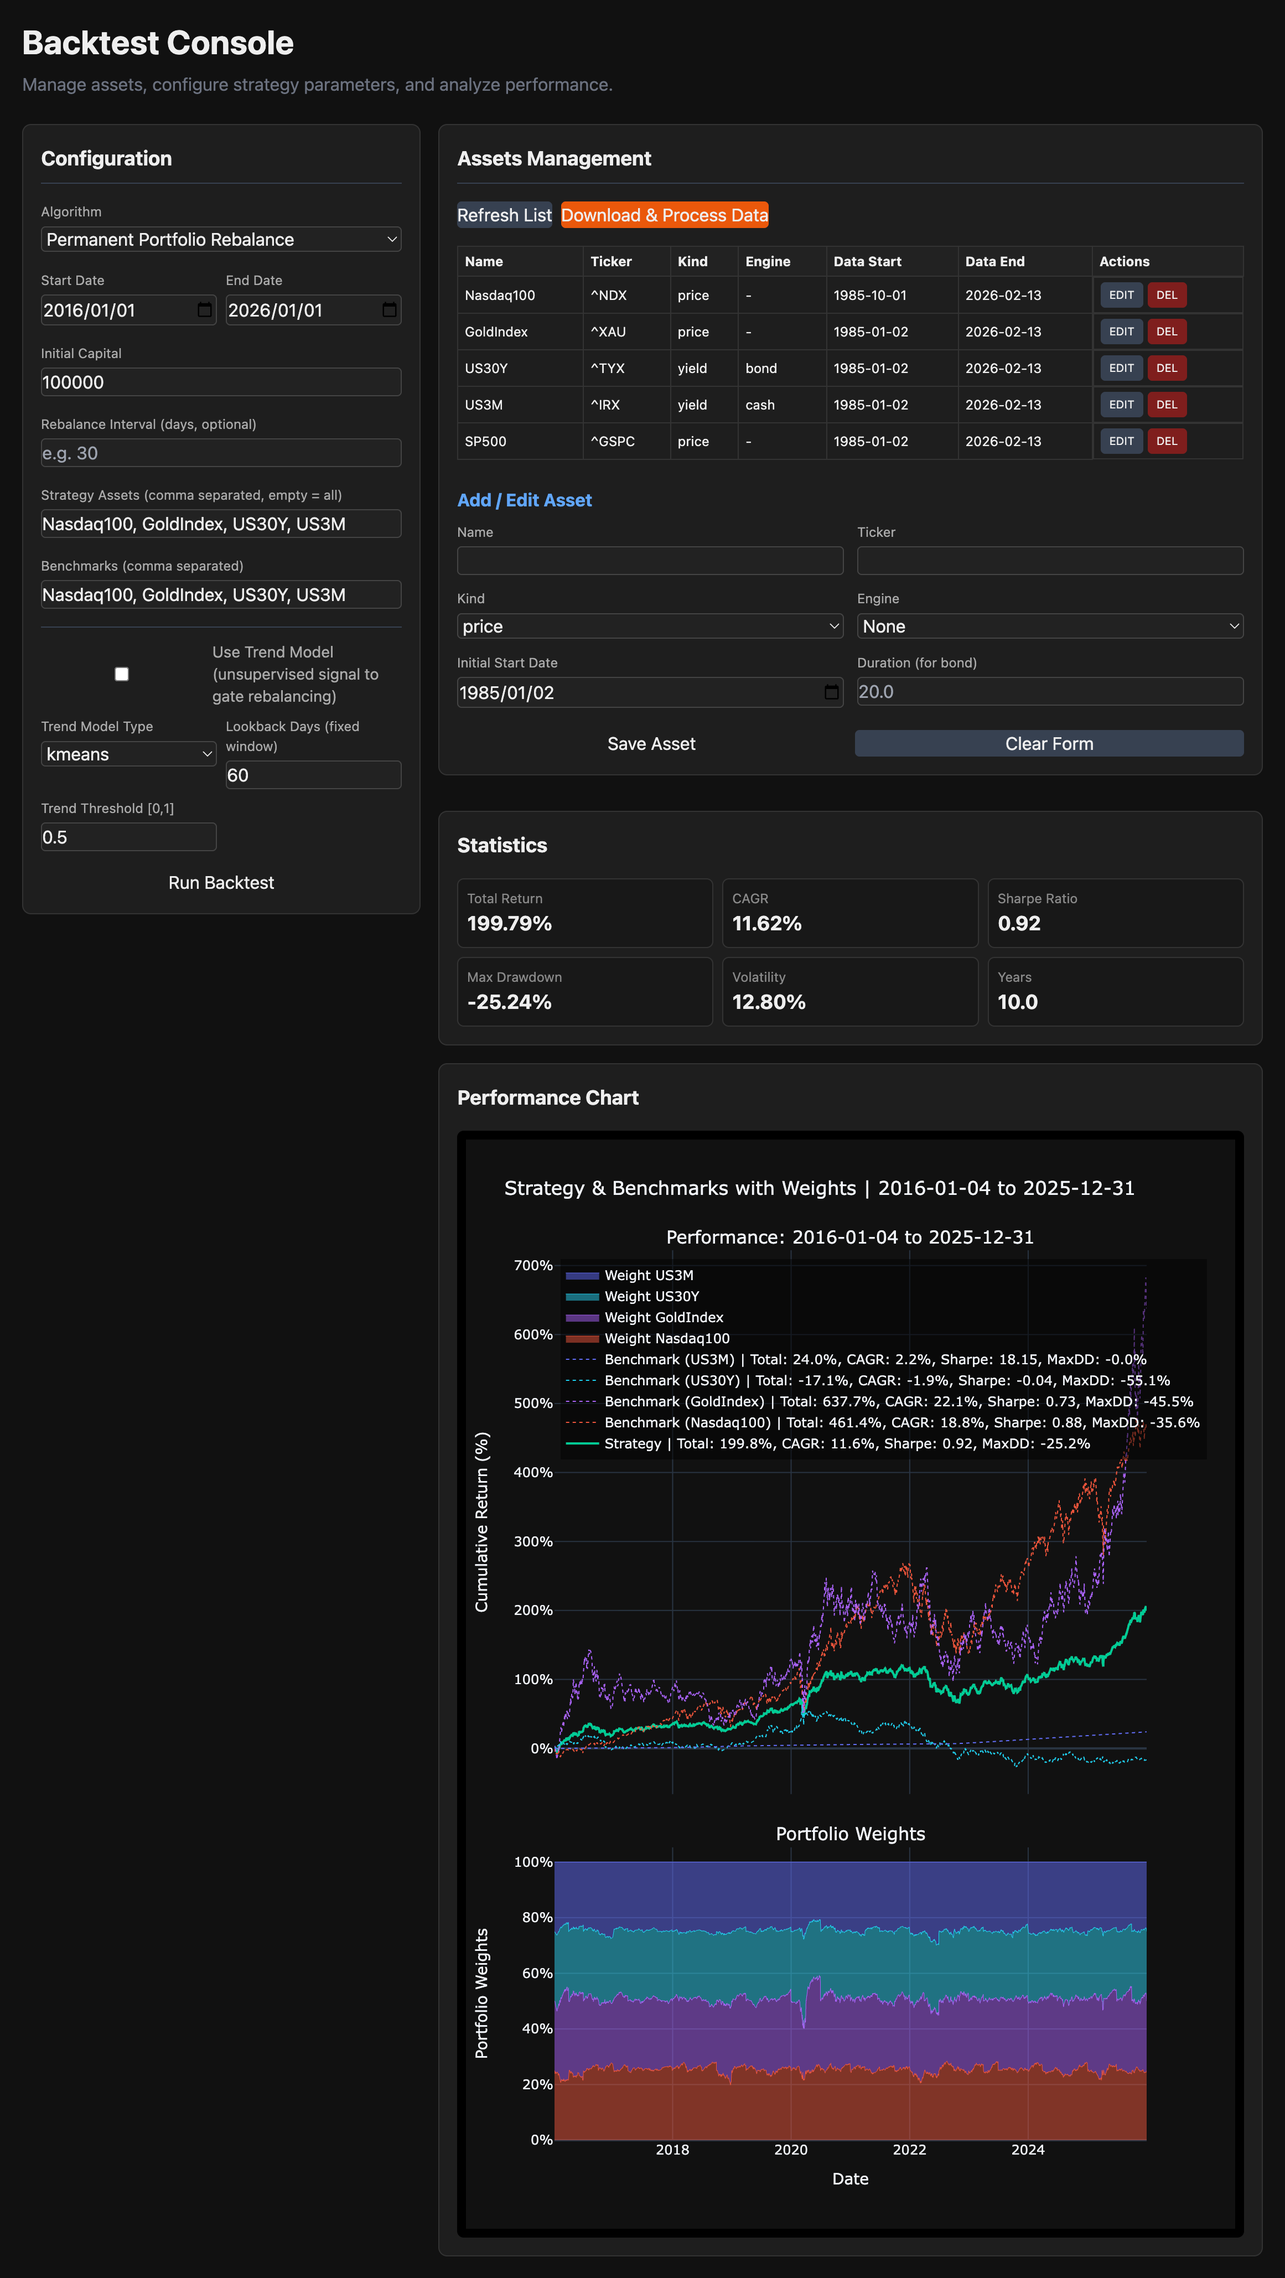
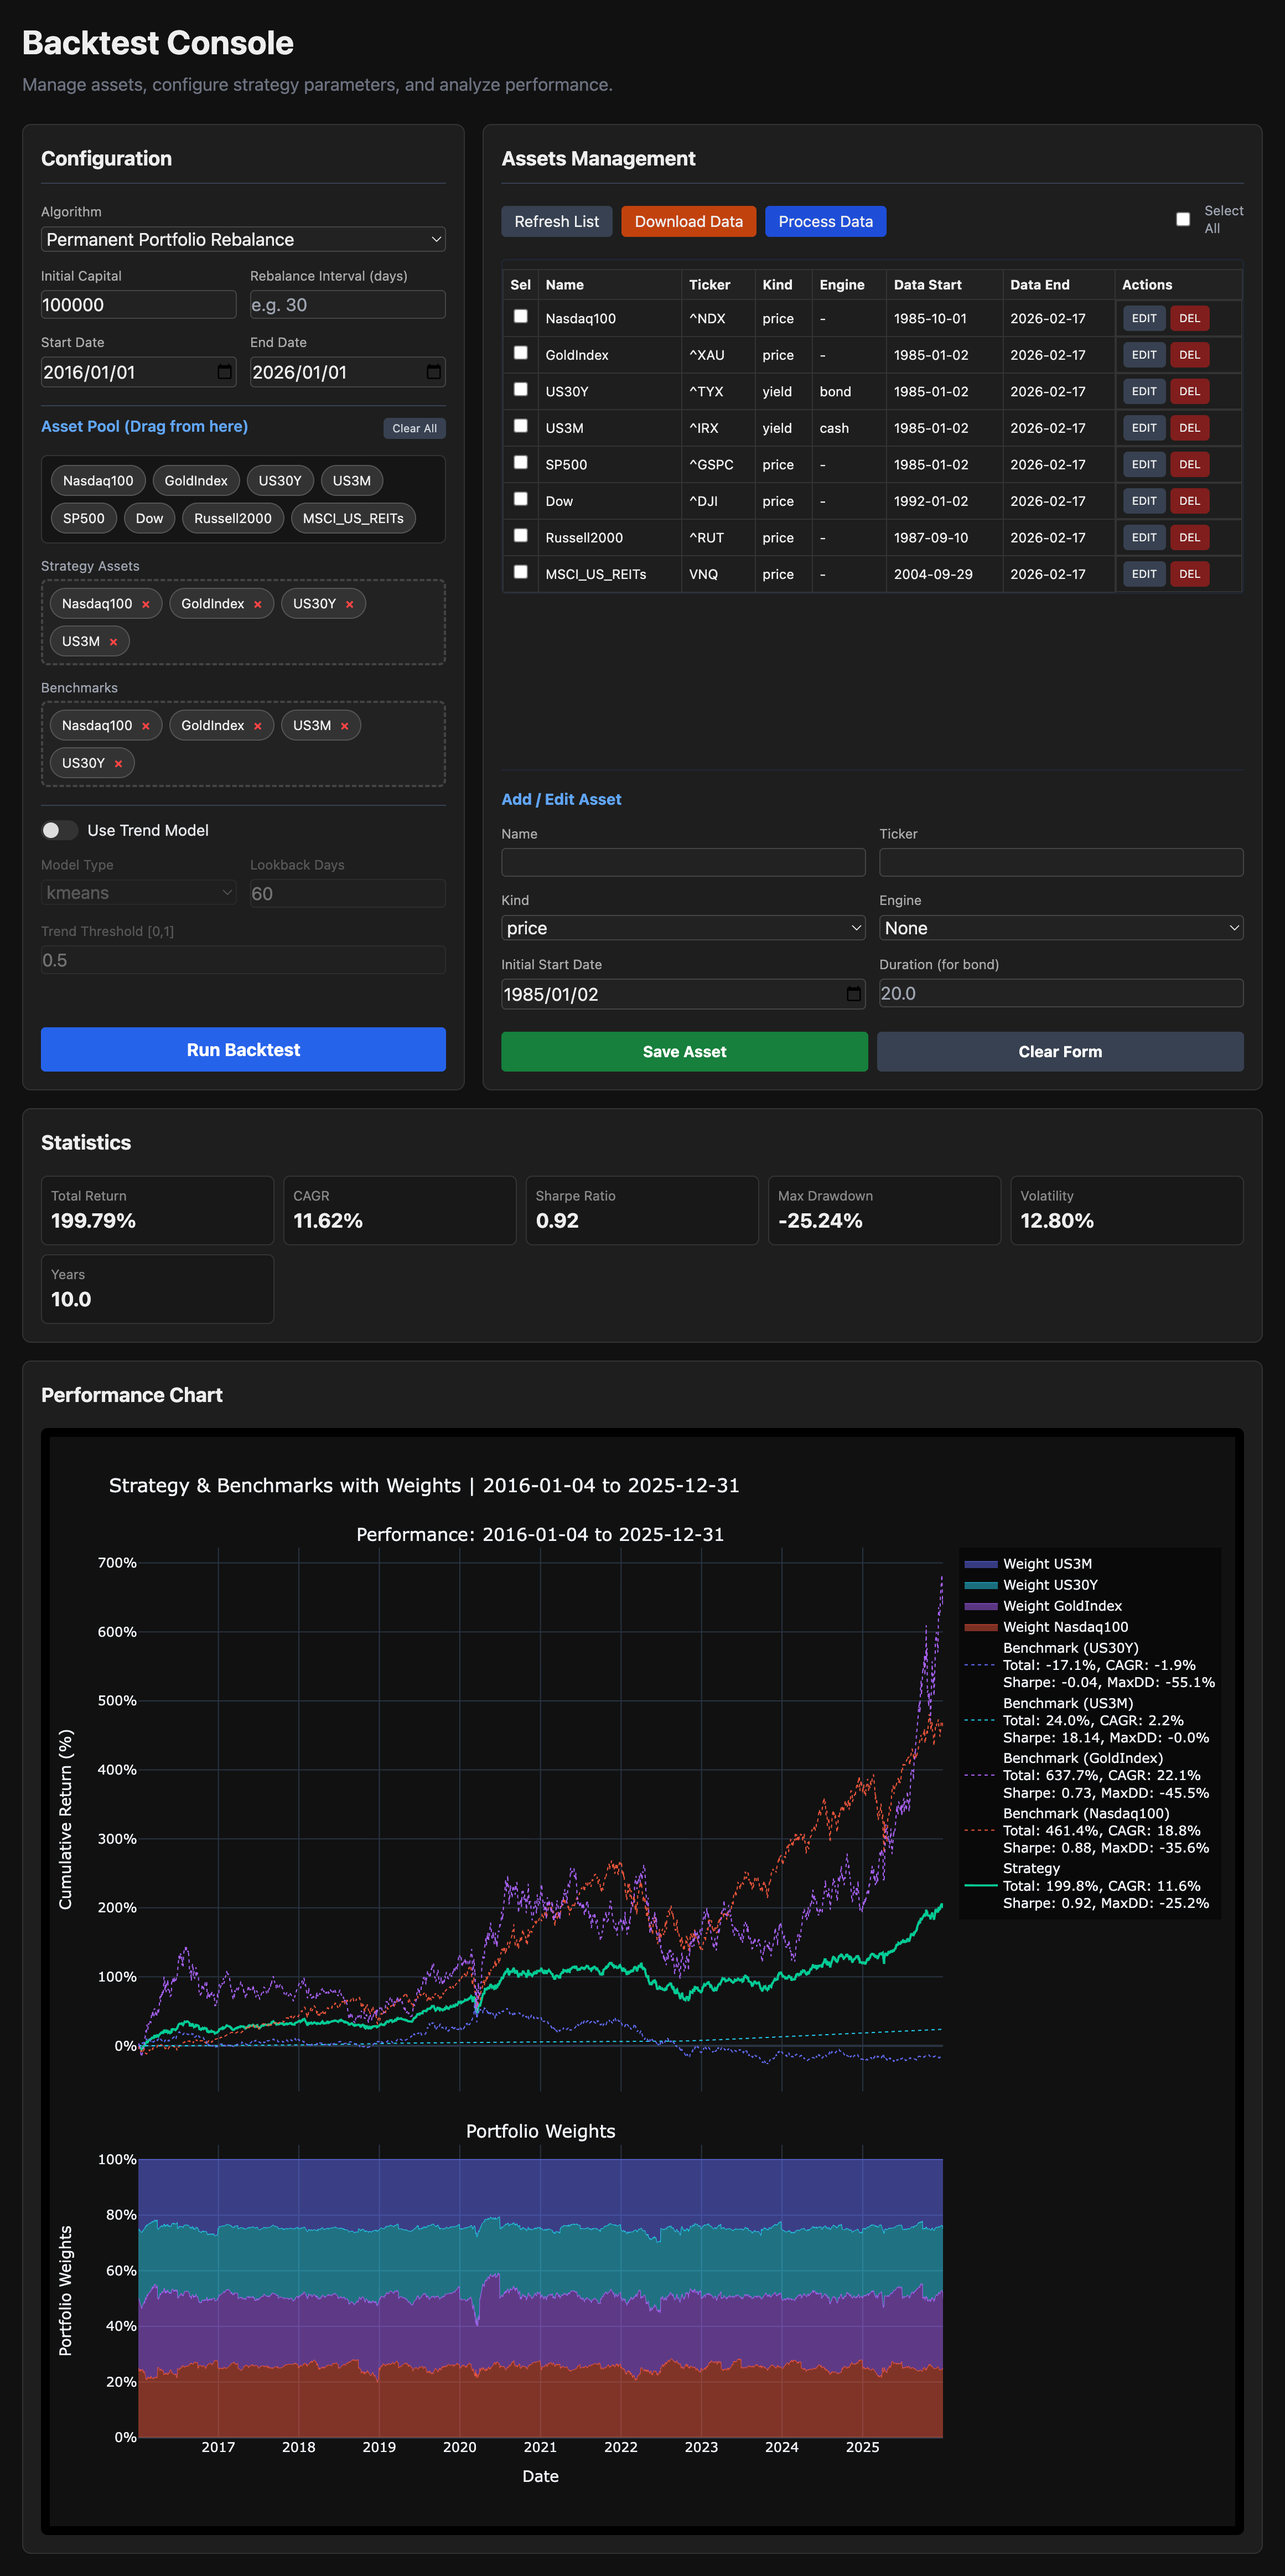
feat: refactor data processing pipeline and update FastAPI endpoints

diff --git a/README.md b/README.md
@@ -1,5 +1,10 @@
 # Updates
 
+- **2026-02-18**
+  - Refactored the data loading and processing pipeline into clearer stages: incremental raw data download (per selected asset) and full-portfolio processing/alignment driven by configuration.
+  - Introduced the `DataProcessor` class to centralize yield-to-price engines (bond/cash) and build a flexible multi-asset price matrix that only drops fully-empty dates, deferring final "barrel effect" trimming to the backtest layer.
+  - Updated the FastAPI endpoints: `POST /api/assets/download` now strictly works on user-selected assets, while `POST /api/assets/process` always rebuilds `aligned_assets.csv` from all assets defined in `config/assets.json`, independent of UI selection.
+
 - **2026-02-17**
   - Added UI controls for configuring an unsupervised trend model (model type, fixed lookback window, threshold) and wiring it through the backtest engine.
   - Introduced a new `signal_weighted_rebalance` algorithm option that tilts portfolio weights based on per-asset trend signals (implementation details remain private).
@@ -26,16 +31,17 @@ project_root/
 │
 ├── data/                # Raw asset data (CSV files named using sanitized asset names)
 ├── data_processed/
-│   ├── aligned_assets.csv              # Synchronized price matrix for backtesting
+│   ├── aligned_assets.csv              # Global aligned price matrix (built from all configured assets)
 │   └── backtest_results_*.html         # Interactive Plotly charts generated from backtest runs
 │
 ├── data_loader/
-│   ├── yahoo_downloader.py  # Incremental OHLCV data downloader using yfinance
-│   └── data_processor.py    # Yield-to-price conversion and multi-asset alignment
+│   ├── yahoo_downloader.py    # Incremental OHLCV downloader using yfinance
+│   ├── akshare_downloader.py  # Incremental OHLCV downloader using akshare
+│   └── data_processor.py      # Yield-to-price conversion and multi-asset alignment
 │
 ├── strategies/
 │   ├── backtest_engine.py      # Core simulation engine (Time loop + algorithm execution)
-|   └── algorithms_template.py  # A template for algorithms.py
+│   └── algorithms_template.py  # A template for algorithms.py
 │
 ├── utils/
 │   ├── decorators.py        # Generic decorators (e.g., @retry)
@@ -65,8 +71,11 @@ project_root/
 - **REST Endpoints**:
   - `GET /api/algorithms`: Lists available rebalancing strategies.
   - `GET /api/assets`: Retrieves configured assets and their local data availability.
-  - `POST /api/assets`: Manages asset configurations.
-  - `POST /api/assets/download`: Triggers data updates with a 1-minute rate limit.
+  - `POST /api/assets`: Creates an asset configuration.
+  - `PUT /api/assets/{name}`: Updates an asset configuration.
+  - `DELETE /api/assets/{name}`: Deletes an asset configuration.
+  - `POST /api/assets/download`: Incrementally downloads raw CSV data for selected assets (60s cooldown).
+  - `POST /api/assets/process`: Processes and aligns data for all configured assets into `data_processed/aligned_assets.csv`.
   - `POST /api/backtest`: Executes backtest simulations synchronously.
 
 ---
@@ -74,26 +83,19 @@ project_root/
 ### 2. `data_loader/`: ETL Pipeline
 
 #### `data_loader/yahoo_downloader.py` (YahooIncrementalLoader Class)
-- **Incremental Sync**: Only downloads missing data based on local CSV history.
-- **Data Sanitization**: Standardizes yfinance output into consistent OHLCV formats.
-- **File Safety**: Sanitizes asset names for cross-platform filesystem compatibility.
+- **Incremental Sync**: Each asset is stored as `data/<sanitized_name>.csv`. The downloader reads local history and only requests the missing date range from Yahoo Finance.
+- **Column Normalization**: Standardizes yfinance output into consistent OHLCV columns (`Open`, `High`, `Low`, `Close`, `Volume`) and fills common gaps (e.g., zero/NaN OHLC using `Close`).
+- **Batch Mode**: `download_batch(assets, start_year=1985)` respects per-asset `initial_start_date` when provided, otherwise falls back to `start_year`.
 
 #### `data_loader/data_processor.py` (DataProcessor Class)
-- **Financial Engineering**: Includes engines to convert Treasury yields into synthetic total return price series (Bond and Cash engines).
-- **Temporal Alignment**: Performs inner joins across multiple assets to ensure a synchronized timeline for backtesting.
-
----
-
-### 3. `strategies/`: Core Engine and Algorithms
-
-#### `strategies/algorithms.py` (RebalanceAlgorithms Class)
-- **Static Strategies**: Contains pure mathematical implementations of rebalancing logic.
-- **Pluggability**: Methods follow a strict signature allowing them to be swapped dynamically by the engine.
-
-#### `strategies/backtest_engine.py` (BacktestEngine Class)
-- **Vectorized Calculations**: Uses NumPy for high-performance portfolio value tracking.
-- **Simulation Logic**: Handles initial capital allocation, transaction fees, and rebalancing triggers (Calendar frequency or fixed day intervals).
-- **Visualization**: Generates standalone Plotly HTML charts with normalized performance comparisons.
+- **Yield-to-Price Engines**:
+  - `bond_pricing_engine`: Converts yield series into a synthetic total return price series (duration-based approximation).
+  - `cash_pricing_engine`: Converts short-rate yields into a cash-like cumulative return series.
+- **Alignment Strategy**:
+  - Builds a multi-asset price matrix in-memory.
+  - Drops only dates where *all* assets are missing (`dropna(how="all")`), preserving partial-missing dates.
+  - Final date-range trimming for a specific backtest run is deferred to the backtest layer based on the selected asset subset.
+- **Persistence**: `process_and_align(...)` writes the aligned matrix to `data_processed/aligned_assets.csv`.
 
 ---
 
@@ -118,12 +120,21 @@ pip install -r requirements.txt
 
 ### 1. Data Setup
 
-1. Define assets in `config/assets.json` or via the Web UI.
-2. Run data synchronization:
+1. Configure assets via Web UI (**Assets Management**) or by editing `config/assets.json`.
+2. Download / update raw data:
 
-   ```bash
-   python main_download.py
-   ```
+   - Via Web UI:
+     - Select assets in the Assets table and click **Download Data** (calls `POST /api/assets/download`).
+   - Via CLI:
+
+     ```bash
+     python main_download.py
+     ```
+
+3. Process and align data:
+
+   - Via Web UI:
+     - Click **Process Data** to rebuild `data_processed/aligned_assets.csv` from all configured assets (calls `POST /api/assets/process`).
 
 ### 2. Running Simulations
 
@@ -146,12 +157,17 @@ python main_backtest.py
    ```
 
 2. Navigate to `http://127.0.0.1:8000/ui`.
-3. Configure parameters and click **Run Backtest**.
+3. (Optional) Download / process data.
+4. Configure parameters and click **Run Backtest**.
 
-![项目截图](./assets/ui.png)
+![ui](./assets/ui.png)
+
 ---
 
 ## FAQ
 
-- **Rate Limiting**: The Yahoo Finance downloader is subject to API rate limits. The system implements a 2-second cooldown on the download endpoint.
+- **Rate Limiting**: The Yahoo Finance downloader is subject to API rate limits. The system implements a 60-second cooldown on the download endpoint.
+- **Processing vs Selection**:
+  - `Download Data` operates on selected assets.
+  - `Process Data` always rebuilds `aligned_assets.csv` from *all* assets in `config/assets.json`.
 - **Adding Algorithms**: New strategies can be added as static methods ending in `_rebalance` within `strategies/algorithms.py`. They will be automatically detected by the system.
